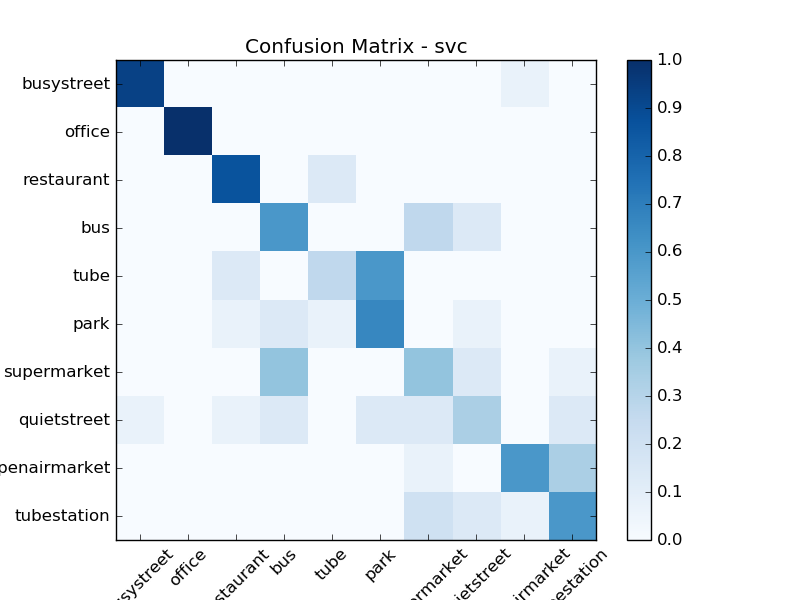
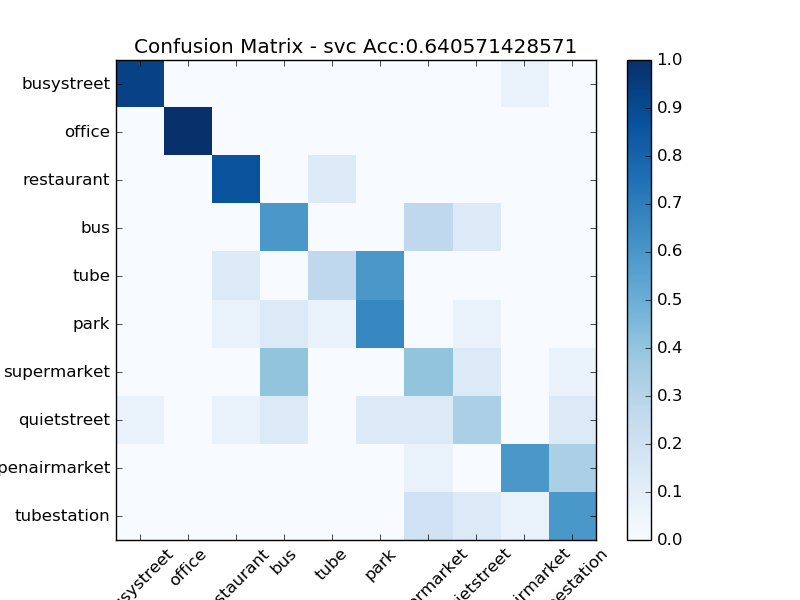
corr in plot

Changed region(s): [[0.1562, 0.06, 0.7188, 0.09]]

diff --git a/plotresults.py b/plotresults.py
@@ -4,12 +4,12 @@ import re
 import matplotlib.pyplot as plt
 import numpy as np
 
-def plot_cm(cm, targets, title="Confusion Matrix", cmap=plt.cm.Blues, norm=True):
+def plot_cm(cm, acc, targets, title="Confusion Matrix", cmap=plt.cm.Blues, norm=True):
     if(norm):
         cm = cm.astype(float)/cm.sum(axis=1)[:, np.newaxis]
     fig = plt.figure()
     plt.imshow(cm, interpolation='nearest', cmap=cmap)
-    plt.title(title)
+    plt.title(title + ' Acc:' + str(acc))
     plt.colorbar()
 
     tick_marks = np.arange(len(targets))
@@ -30,4 +30,5 @@ for f in glob.glob('result*.pkl'):
    res = joblib.load(f)
    clf_name = re.search('(?<=result)\w+(?=.pkl)', f).group(0)
    print clf_name
-   plot_cm(res['tot_cm'], res['result']['class_wise_accuracy'].keys(), title='Confusion Matrix - '+clf_name)
+   plot_cm(res['tot_cm'], res['result']['overall_accuracy'], res['result']['class_wise_accuracy'].keys(), title='Confusion Matrix - '+clf_name)
+
